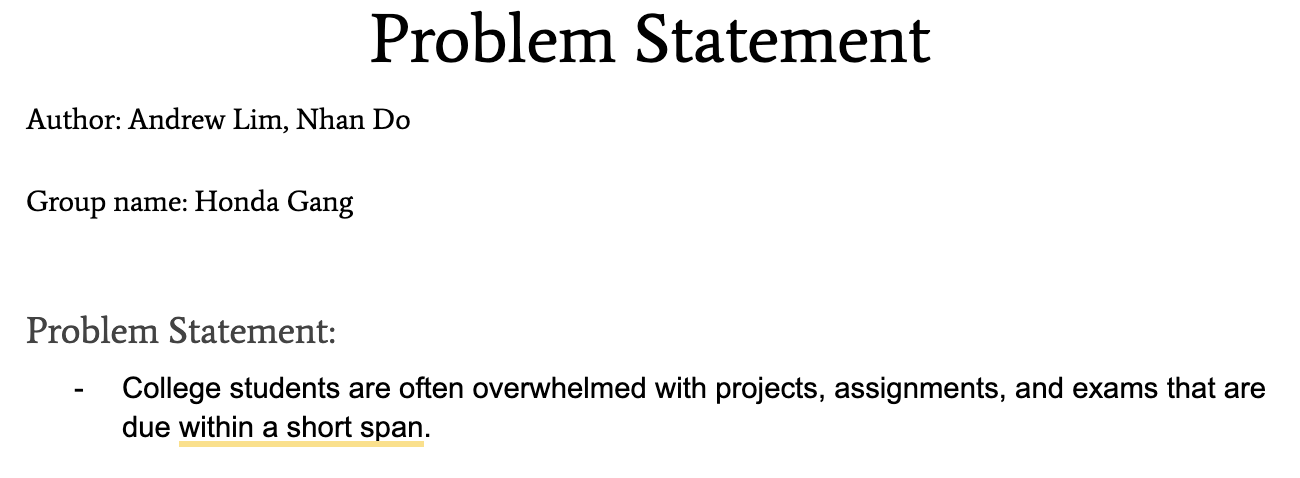
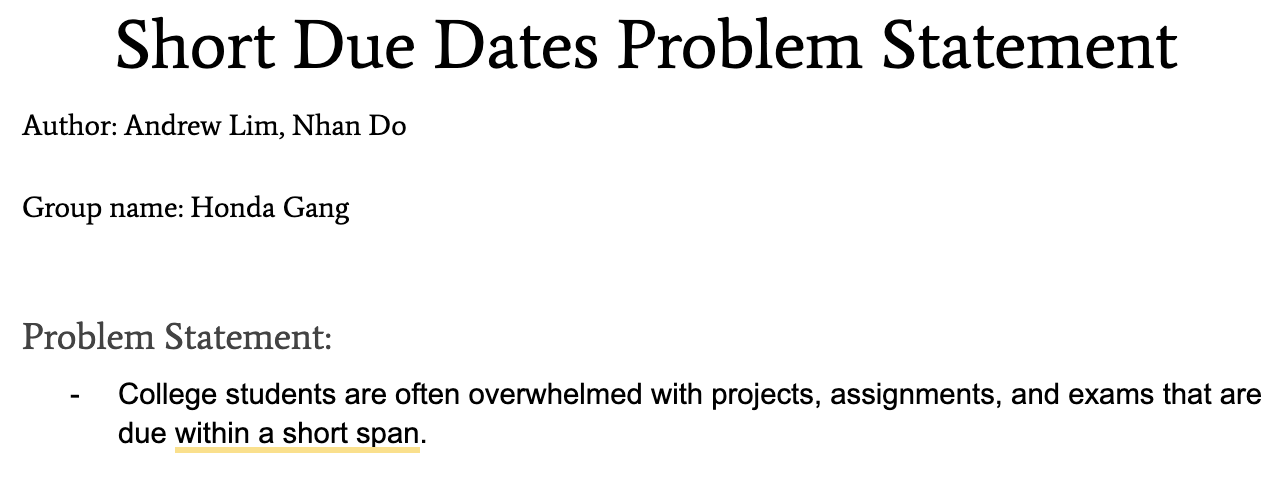
topic change

diff --git a/index.html b/index.html
@@ -19,7 +19,7 @@
         <div class="projects">
             <!-- Problem Statement Assignment -->
             <section class="project">
-                <a href="files/statement.pdf"><h3>Parking Problem Statement</h3></a>
+                <a href="files/statement.pdf"><h3>Short Due Dates Problem Statement</h3></a>
                 <div class= "item-container">
                     <a href="files/statement.pdf"><img src="images/problem.png" class = "current-positions"></a>
                 </div>
